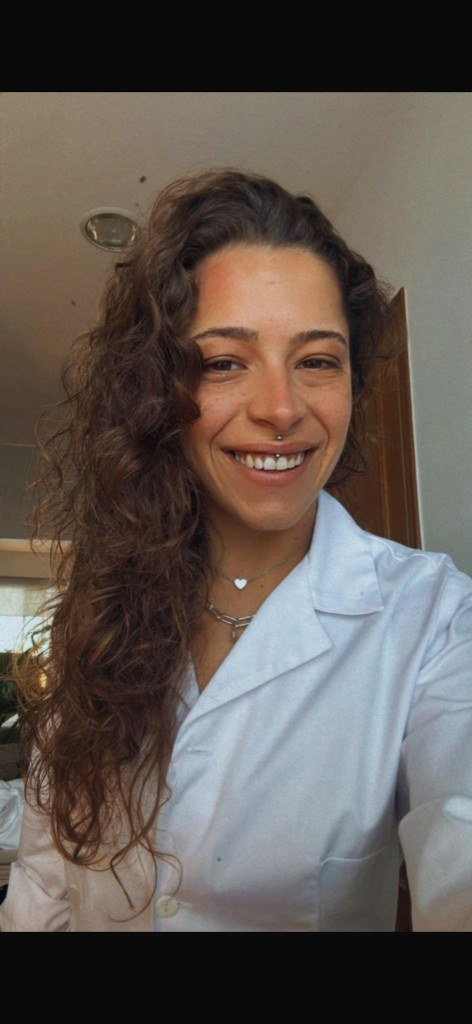
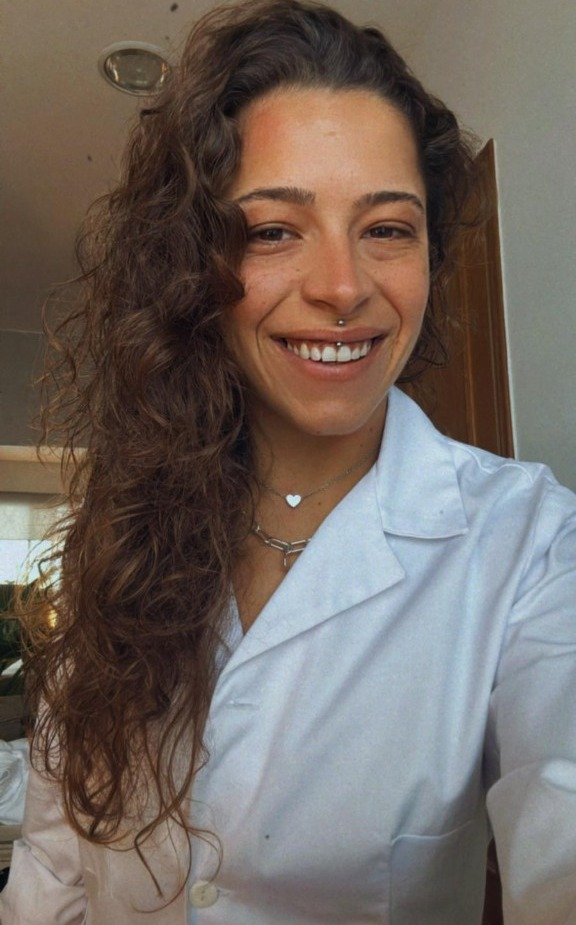
Foto A Profissional sem rebordos e melhor enquadramento

diff --git a/css/style.css b/css/style.css
@@ -774,6 +774,10 @@ ul {
   overflow: hidden;
   box-shadow: var(--shadow-lg);
   border: 3px solid var(--sage-pale);
+  width: 100%;
+  max-width: 380px;
+  aspect-ratio: 9 / 16;
+  margin: 0 auto;
 }
 
 .professional-image img {